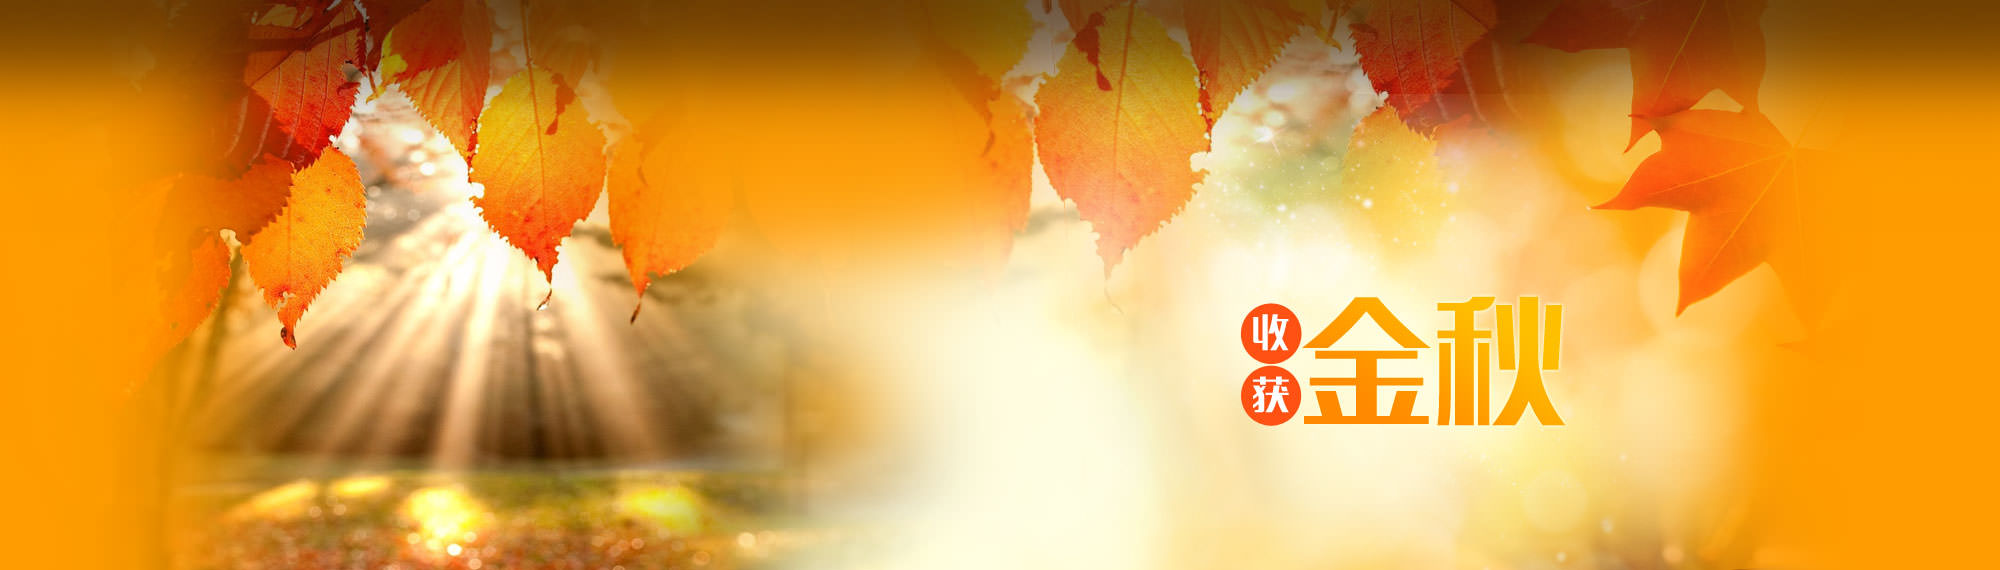
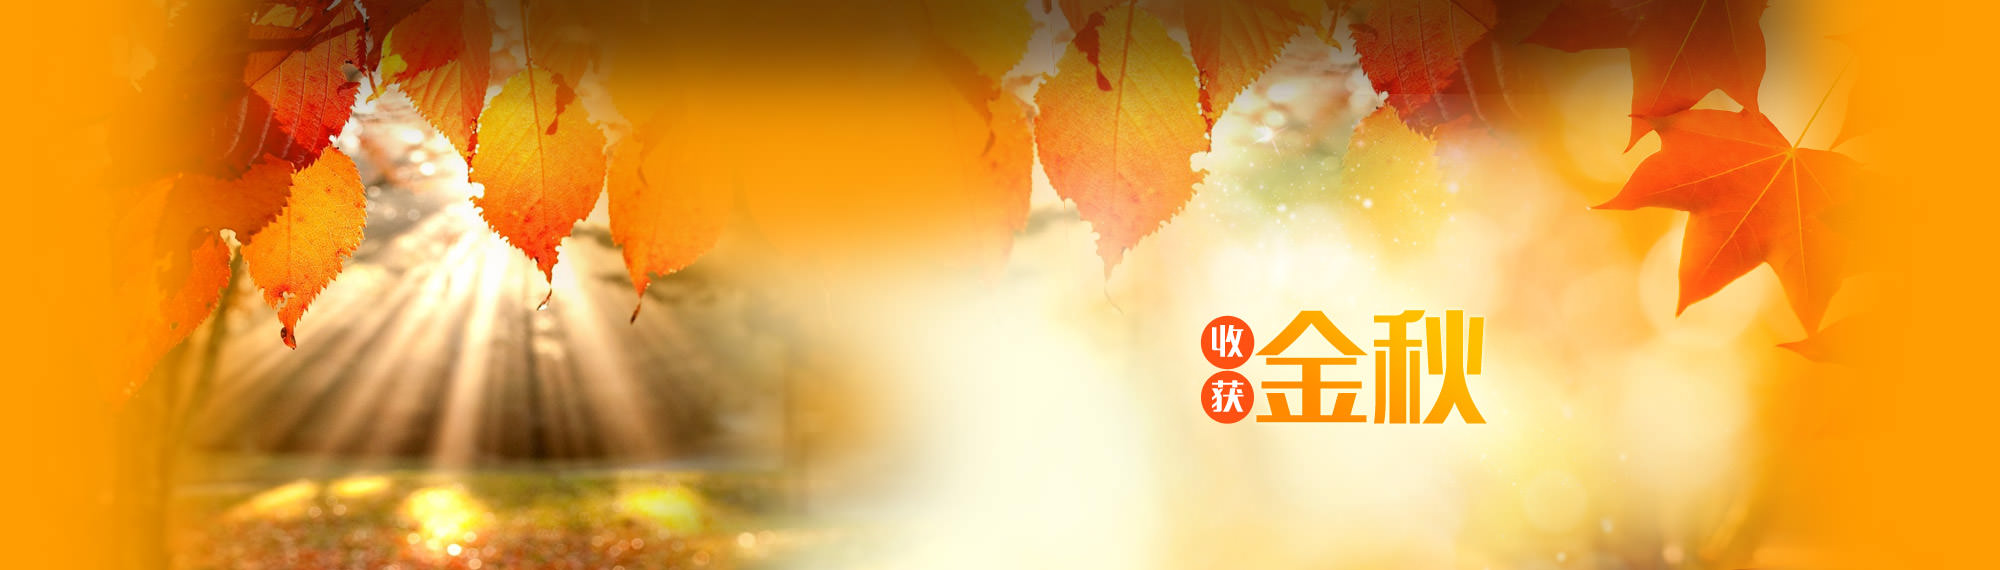
修改采购商国内首页背景图 & 修改采购商旅游订单批量操作按钮位置

Changed region(s): [[0.837, 0.0, 1.0, 0.9246], [0.589, 0.507, 0.806, 0.7456], [0.0, 0.0, 0.155, 0.2088]]

diff --git a/static/css/supplierShip.css b/static/css/supplierShip.css
@@ -2381,29 +2381,24 @@ td.k-other-month .k-link {
     position: relative;
 }
 .calendarMonthLeft {
-    background: url("../images/store/calendar_arrow.png") 0 0 no-repeat;
-    width: 6px;
-    height: 11px;
+    background: url("../images/supplier/calendar_navi_arrow.png") 0 -27px no-repeat;
+    width: 25px;
+    height: 25px;
     position:absolute;
-    top:12px;
+    top:8px;
     left:10px;
     cursor: pointer;
 }
 .calendarMonthRight {
-    background: url("../images/store/calendar_arrow.png") 0 -12px no-repeat;
-    width: 6px;
-    height: 11px;
+    background: url("../images/supplier/calendar_navi_arrow.png") -27px -27px no-repeat;
+    width: 25px;
+    height: 25px;
     position:absolute;
-    top:12px;
+    top:8px;
     right:10px;
     cursor: pointer;
 }
-.calendarMonthLeft:hover {
-    background-position: 0 -24px;
-}
-.calendarMonthRight:hover {
-    background-position: 0 -36px;
-}
+
 .calendarDate {
     text-align: center;
     font-size: 16px;
@@ -2428,4 +2423,135 @@ td.k-other-month .k-link {
 
 .dateSelect .k-link {
     color: #fff!important;
+}
+
+.tourDateOpeBtn {
+    float: right;
+    margin-right: 70px;
+}
+
+.adaptiveButton .blueBtn {
+    display: inline-block;
+}
+
+.adaptiveButton.blueBtn span {
+    float: left;
+}
+
+.adaptiveButton.blueBtn .left{
+    background: url(../images/supplier/blue-btn-left.png) no-repeat 0 0;
+    width: 2px;
+    height: 35px;
+}
+
+.adaptiveButton.blueBtn .center{
+    background-color: #0074d2;
+    color: #fff;
+    height: 35px;
+    line-height: 35px;
+    padding: 0 25px;
+    font-size: 16px;
+}
+
+.adaptiveButton.blueBtn .right{
+    background: url(../images/supplier/blue-btn-right.png) no-repeat 0 0;
+    width: 2px;
+    height: 35px;
+}
+
+.tourDateOpeBtn .cancelLink {
+    font-size: 16px;
+    text-decoration: underline;
+    padding-left: 20px;
+}
+
+/* 已选择日期部分 */
+.selectedDateItem {
+    width: 200px;
+    height: 78px;
+    border: 1px solid #2e91ca;
+}
+
+.selectedDateItem .topPart {
+    height: 40px;
+    background-color: #1887c5;
+    color: #fff;
+    padding-left: 5px;
+    position: relative;
+}
+
+.topPart span {
+    font-size: 16px;
+}
+
+i.delItem {
+    background: url(../images/supplier/calendar_navi_arrow.png) no-repeat -57px 0;
+    width: 12px;
+    height: 12px;
+    display: inline-block;
+    position: absolute;
+    right: 8px;
+    top: 15px;
+    cursor: pointer;
+}
+
+.selectedDateItem .bottomPart {
+    padding: 3px;
+    position: relative;
+}
+
+.bottomPart input {
+    width: 162px;
+    height: 32px;
+    padding-left: 2px;
+    font-size: 14px;
+    position: relative;
+    top: -7px;
+}
+
+.selectedDateList {
+    float: left;
+}
+
+.editTourDateBtn {
+    width: 210px;
+    height: 45px;
+    text-align: center;
+    line-height: 45px;
+    background-color: #edfcff;
+    border: 1px dashed #4fd0f5;
+    font-size: 16px;
+    color: #00a8e6;
+    cursor: pointer;
+    float: right;
+}
+
+.noBorder {
+    border: 0!important;
+}
+
+i.editItemName {
+    background: url(../images/supplier/calendar_navi_arrow.png) no-repeat -74px 0;
+    width: 17px;
+    height: 17px;
+    display: inline-block;
+    position: absolute;
+    right: 8px;
+    top: 12px;
+}
+
+i.editItemName:hover {
+    background: url(../images/supplier/calendar_navi_arrow.png) no-repeat -96px 0;
+    cursor: pointer;
+}
+
+i.sureEditItemName {
+    background: url(../images/supplier/calendar_navi_arrow.png) no-repeat -54px -27px;
+    width: 20px;
+    height: 20px;
+    display: inline-block;
+    position: absolute;
+    right: 4px;
+    top: 10px;
+    cursor: pointer;
 }

diff --git a/供应商/邮轮/航线管理/添加团期.html b/供应商/邮轮/航线管理/添加团期.html
@@ -167,7 +167,7 @@
                         <tr>
                             <th class="verticalTop"><em class="redStar">*</em>启航日期</th>
                             <td style="position:relative;">
-                                <div class="addTourDateBtn">请选择启航日期</div>
+                                <div class="addTourDateBtn" style="display:none;">请选择启航日期</div>
 
                                 <div class="tourDateBlock" style="display:none;">
                                     <div class="leftDateBlock">
@@ -191,9 +191,31 @@
                                         </div>
                                     </div>
 
-                                    <div class="tourDateOpeBtn">
-                                        
+                                    <div class="tourDateOpeBtn clearfix">
+                                        <a class="adaptiveButton blueBtn sureSelectDate">
+                                            <span class="left"></span>
+                                            <span class="center">确 定</span>
+                                            <span class="right"></span>
+                                        </a>
+                                        <a href="javascript:void(0);" class="cancelLink cancelSelectDate">取消</a>
                                     </div>
+                                </div>
+
+                                <div class="selectedDateBlock">
+                                    <div class="selectedDateList">
+                                        <div class="selectedDateItem">
+                                            <div class="topPart">
+                                                <span>2014-09-04</span>
+                                                <i class="delItem"></i>
+                                            </div>
+                                            <div class="bottomPart">
+                                                <input type="text" value="20140904维多利亚号" readonly="readonly" class="noBorder"/>
+                                                <i class="editItemName"></i>
+                                                <i class="sureEditItemName" style="display:none;"></i>
+                                            </div>
+                                        </div>
+                                    </div>
+                                    <div class="editTourDateBtn">修改启航日期</div>
                                 </div>
                             </td>
                         </tr>
@@ -671,7 +693,27 @@
                 $(".tourDateBlock").show();
             });
 
-            // $("")
+            $("body").delegate(".sureSelectDate", "click", function(){
+                $(".tourDateBlock").hide();
+            });
+
+            // 选中日期的操作
+
+            /* 编辑文本框 */
+            $("body").delegate(".editItemName", "click", function(){
+                $(this).siblings("input").removeAttr("readonly");
+            });
+
+            // 确认编辑保存
+            $("body").delegate(".sureEditItemName", "click", function(){
+
+            });
+
+            // 删除日期
+            $("body").delegate(".delItem", "click", function(){
+
+            });
+
         })
 
         function changeCalendarDateInfo(toDate){

diff --git a/static/css/store_v2/travelParticulars.css b/static/css/store_v2/travelParticulars.css
@@ -1033,6 +1033,10 @@
     border-bottom: 1px solid #e4e4e4;
 }
 
+#travelerInfo .chief {
+    position: relative;
+}
+
 #travelerInfo .batchConfirm{
     width: 70px;
     height: 22px;
@@ -1042,8 +1046,8 @@
     line-height: 22px;
     float: right;
     position: absolute;
-    left: 895px;
-    bottom: 250px;
+    left: 884px;
+    bottom: 5px;
 }
 
 #exitPassenger .batchConfirm{
